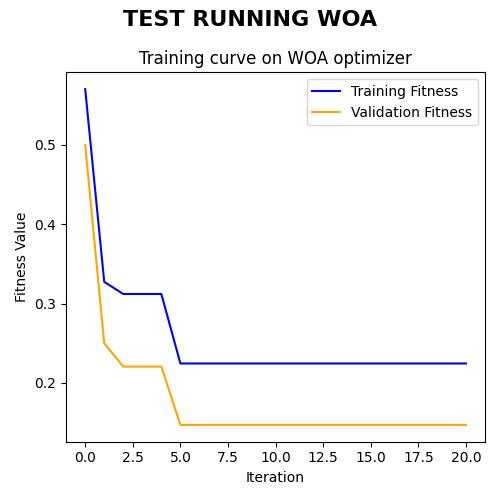
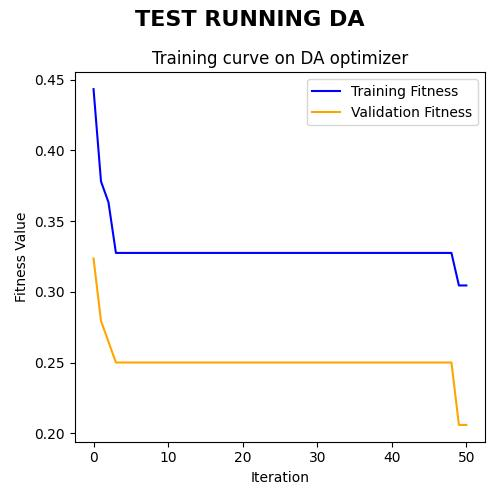
Refactor and fixes
Fix in main function calling analysis functions.
Refactor of get_optimizers-like functions, moved to data_utils.
Some typo fixes.
Added new constants.

diff --git a/src/main.py b/src/main.py
@@ -13,11 +13,11 @@ def main(*args, **kwargs):
     start_time = time.time()
 
     # Get parameters from the user
-    dataset_arg = kwargs.get('-d', D1)  # Chosen dataset
+    dataset_arg = kwargs.get('-d', D2)  # Chosen dataset
     # Notifications meaning end of training
     notify_arg = kwargs.get('-n', True)
     k_arg = kwargs.get('-k', 5)  # Number of folds in cross validation
-    scaling_arg = kwargs.get('-s', -1)  # Type of scaling applied to dataset
+    scaling_arg = kwargs.get('-s', 1)  # Type of scaling applied to dataset
 
     # Core functionality
     dataset = load_arff_data(dataset_arg)
@@ -29,10 +29,10 @@ def main(*args, **kwargs):
         norm_dataset = dataset
 
     # Split the data into dict form
-    dataset_dict = split_data(norm_dataset)
+    dataset_dict = split_data_to_dict(norm_dataset)
 
     k = k_arg  # F fold cross validation
-    optimizer_dict = {'DA': dragonfly_algorithm, }
+    optimizer_dict = OPTIMIZERS
 
     # Initial weights are set randomly between 0 and 1
     weights = np.random.uniform(
@@ -55,24 +55,28 @@ def main(*args, **kwargs):
         parameters, optimizer_title = get_optimizer_parameters(
             opt, dataset_dict[DATA].shape[1])
 
-        # SVC
+        # SVC Cross validation for x optimizer alone
         test_fitness, fitness_values = k_fold_cross_validation(
-            dataset=dataset, optimizer=optimizer_dict[opt], k=k, parameters=parameters, target_function_parameters=target_function_parameters)
-        total_fitness_test = population_test(
-            dataset=dataset, optimizer=optimizer_dict[opt], k=k, parameters=parameters, target_function_parameters=target_function_parameters)
+            dataset=dataset_dict, optimizer=optimizer_dict[opt], k=k, parameters=parameters, target_function_parameters=target_function_parameters)
 
-        # KNN
+        # Test for x optimizer altering population size with SVC
+        total_fitness_test = population_test(
+            dataset=dataset_dict, optimizer=optimizer_dict[opt], k=k, parameters=parameters, target_function_parameters=target_function_parameters)
+
+        # KNN cross validation for x optimizer alone
         target_function_parameters['classifier'] = 'knn'
         test_fitness_2, fitness_values_2 = k_fold_cross_validation(
-            dataset=dataset, optimizer=optimizer_dict[opt], k=k, parameters=parameters, target_function_parameters=target_function_parameters)
-        total_fitness_test_2 = population_test(
-            dataset=dataset, optimizer=optimizer_dict[opt], k=k, parameters=parameters, target_function_parameters=target_function_parameters)
+            dataset=dataset_dict, optimizer=optimizer_dict[opt], k=k, parameters=parameters, target_function_parameters=target_function_parameters)
 
-        # Print average accuracy over k folds
-        print('Average test fitness over 5 Folds (SVC): ',
-              round(np.mean(test_fitness), 2))
-        print('Average test fitness over 5 Folds (KNN): ',
-              round(np.mean(test_fitness_2), 2))
+        # Test for x optimizer altering population size with KNN
+        total_fitness_test_2 = population_test(
+            dataset=dataset_dict, optimizer=optimizer_dict[opt], k=k, parameters=parameters, target_function_parameters=target_function_parameters)
+
+       # Print average accuracy over k folds
+        print('Average test fitness over {} Folds (SVC): {}'.format(
+            k, round(np.mean(test_fitness), 2)))
+        print('Average test fitness over {} Folds (KNN): {}'.format(
+            k, round(np.mean(test_fitness_2), 2)))
 
         # First set of plots
         second_key = list(parameters.keys())[1]
@@ -98,13 +102,14 @@ def main(*args, **kwargs):
 
     # Third set of plots
     ax5 = fig.add_subplot(gs[rows, :])
-    max_iterations = 30
+
+    # Comparison of all optimizers
     fitness_from_all_optimizers = optimizer_comparison(
-        dataset=dataset, optimizer_dict=optimizer_dict, k=5, target_function_parameters=target_function_parameters, max_iterations=max_iterations)
+        dataset=dataset_dict, optimizer_dict=optimizer_dict, k=5, target_function_parameters=target_function_parameters, max_iterations=DEFAULT_MAX_ITERATIONS)
     # Use entire row for the last plot
     plot_fitness_all_optimizers(fitness_from_all_optimizers, 10, ax=ax5)
 
-    fig.suptitle(optimizer_title, fontsize=16)
+    fig.suptitle(optimizer_title, fontsize=16) # TODO fix title for all plots and fix subtitle for subplots
     plt.tight_layout()
     plt.savefig('./images/dashboard.jpg')
 

diff --git a/src/analysis_utils.py b/src/analysis_utils.py
@@ -5,8 +5,11 @@ from sklearn.model_selection import StratifiedKFold
 from sklearn.model_selection import train_test_split
 import numpy as np
 from constants import *
+from data_utils import *
 
 # TODO change names of functions
+# TODO add to plot population sizes and optimizer names
+
 
 def compute_accuracy(weights, data, classifier='knn', n_neighbors=5):
     sample = data[DATA]
@@ -132,62 +135,6 @@ def population_test(dataset, optimizer, k=5, parameters=None, target_function_pa
 
     return average_fitness_test
 
-
-def get_optimizer_parameters(optimizer=None, solution_len=2):
-    optimizer_title = 'No optimizer Selected'
-    parameters = {}
-
-    optimizer_upper = optimizer.upper()
-
-    if optimizer_upper == 'GOA':
-        parameters = {
-            'grasshoppers': 20,
-            'iterations': 500,
-            'min_values': [0] * (solution_len),
-            'max_values': [1] * (solution_len),
-            'binary': 's',  # Best binary version in paper
-        }
-        optimizer_title = 'Running GOA'
-    elif optimizer_upper == 'DA':
-        parameters = {
-            'size': 20,
-            'generations': 500,
-            'min_values': [0] * (solution_len),
-            'max_values': [1] * (solution_len),
-            'binary': 's',  # Binary version proposed in paper
-        }
-        optimizer_title = 'Running DA'
-    elif optimizer_upper == 'GWO':
-        parameters = {
-            'pack_size': 20,
-            'iterations': 20,
-            'min_values': [0] * (solution_len),
-            'max_values': [1] * (solution_len),
-            'binary': 's',  # Best binary version in the paper
-        }
-        optimizer_title = 'Running GWO'
-    elif optimizer_upper == 'WOA':
-        parameters = {
-            'hunting_party': 20,
-            'iterations': 20,
-            'min_values': [0] * (solution_len),
-            'max_values': [1] * (solution_len),
-            'spiral_param': 1,
-            'binary': 's',
-        }
-        optimizer_title = 'Running WOA'
-    return parameters, optimizer_title
-
-def get_optimizers_list():
-    return list(OPTIMIZERS.keys())
-
-def get_optimizer(optimizer):
-    return OPTIMIZERS[optimizer.upper()]
-
-def get_optimizer_name_by_function(optimizer_func):
-    for key, value in OPTIMIZERS.items():
-        if value == optimizer_func:
-            return key
 
 def optimizer_comparison(dataset, optimizer_dict, k=5, target_function_parameters=None, max_iterations=30):
     parameters_dict = {key: get_optimizer_parameters(

diff --git a/src/data_utils.py b/src/data_utils.py
@@ -121,3 +121,65 @@ def scaling_standard_score(data):
 
     # Combine the normalized features (x_normalized) and labels (y) into a single array
     return np.column_stack((x_scaled, y))
+
+# ------------------------------ OPTIMIZERS -------------------------------- #
+
+
+def get_optimizer_parameters(optimizer=None, solution_len=2):
+    optimizer_title = 'No optimizer Selected'
+    parameters = {}
+
+    optimizer_upper = optimizer.upper()
+
+    if optimizer_upper == 'GOA':
+        parameters = {
+            'grasshoppers': DEFAULT_POPULATION_SIZE,
+            'iterations': DEFAULT_ITERATIONS,
+            'min_values': [0] * (solution_len),
+            'max_values': [1] * (solution_len),
+            'binary': 's',  # Best binary version in paper
+        }
+        optimizer_title = 'Running GOA'
+    elif optimizer_upper == 'DA':
+        parameters = {
+            'size': DEFAULT_POPULATION_SIZE,
+            'generations': DEFAULT_ITERATIONS,
+            'min_values': [0] * (solution_len),
+            'max_values': [1] * (solution_len),
+            'binary': 's',  # Binary version proposed in paper
+        }
+        optimizer_title = 'Running DA'
+    elif optimizer_upper == 'GWO':
+        parameters = {
+            'pack_size': DEFAULT_POPULATION_SIZE,
+            'iterations': DEFAULT_ITERATIONS,
+            'min_values': [0] * (solution_len),
+            'max_values': [1] * (solution_len),
+            'binary': 's',  # Best binary version in the paper
+        }
+        optimizer_title = 'Running GWO'
+    elif optimizer_upper == 'WOA':
+        parameters = {
+            'hunting_party': DEFAULT_POPULATION_SIZE,
+            'iterations': DEFAULT_ITERATIONS,
+            'min_values': [0] * (solution_len),
+            'max_values': [1] * (solution_len),
+            'spiral_param': 1,
+            'binary': 's',
+        }
+        optimizer_title = 'Running WOA'
+    return parameters, optimizer_title
+
+
+def get_optimizers_list():
+    return list(OPTIMIZERS.keys())
+
+
+def get_optimizer(optimizer):
+    return OPTIMIZERS[optimizer.upper()]
+
+
+def get_optimizer_name_by_function(optimizer_func):
+    for key, value in OPTIMIZERS.items():
+        if value == optimizer_func:
+            return key

diff --git a/src/test_utils.py b/src/test_utils.py
@@ -28,19 +28,28 @@ def default_parameters(opt=None):
                 - 'classifier' (string): The classifier's name used by the target function.
                 - 'n_neighbors' (int): The number of neighbors to consider in the target function.
     """
+
+    # Test parameters 
     dataset = split_data_to_dict(load_arff_data(D2))
     optimizer = OPTIMIZERS[opt.upper(
     )] if opt else OPTIMIZERS[DEFAULT_OPTIMIZER]
+
+    optimizer_parameters = get_optimizer_parameters(opt.upper() if opt else DEFAULT_OPTIMIZER, dataset[DATA].shape[1])[0]
+    if 'iterarions' in optimizer_parameters:
+        optimizer_parameters['iterations'] = DEFAULT_TEST_ITERATIONS
+    elif 'generations' in optimizer_parameters:
+        optimizer_parameters['generations'] = DEFAULT_TEST_ITERATIONS
+
     return {
         'k': 5,
         'dataset': dataset,
         'optimizer': optimizer,
-        'optimizer_parameters': get_optimizer_parameters(opt.upper() if opt else DEFAULT_OPTIMIZER, dataset[DATA].shape[1])[0],
+        'optimizer_parameters': optimizer_parameters,
         'target_function_parameters': {
             'weights': np.random.uniform(low=0, high=1, size=dataset[DATA].shape[1]),
             'data': dataset,
             'alpha': 0.5,
-            'classifier': KNN,
+            'classifier': KNN_CLASSIFIER,
             'n_neighbors': 20
         }
     }
@@ -113,6 +122,6 @@ def test_cross_validation(k=5, dataset=None, optimizer=OPTIMIZERS[DEFAULT_OPTIMI
 
 
 if __name__ == '__main__':
-    optimizer = 'WOA'
+    optimizer = 'DA'
     test_run_optimizer(
         **{key: value for key, value in default_parameters(optimizer).items() if key != 'k' and key != 'dataset'})

diff --git a/src/constants.py b/src/constants.py
@@ -22,9 +22,13 @@ OPTIMIZERS = {
 
 DATA = 'data'
 LABELS = 'labels'
-KNN = 'knn'
-SVC = 'svc'
+KNN_CLASSIFIER = 'knn'
+SVC_CLASSIFIER = 'svc'
 
 # ---------------------------------- DEFAULT ------------------------------------ #
 
 DEFAULT_OPTIMIZER = 'GOA'
+DEFAULT_TEST_ITERATIONS = 50
+DEFAULT_ITERATIONS = 2
+DEFAULT_MAX_ITERATIONS = 30 # For analisys comparison between optimizers
+DEFAULT_POPULATION_SIZE = 20
